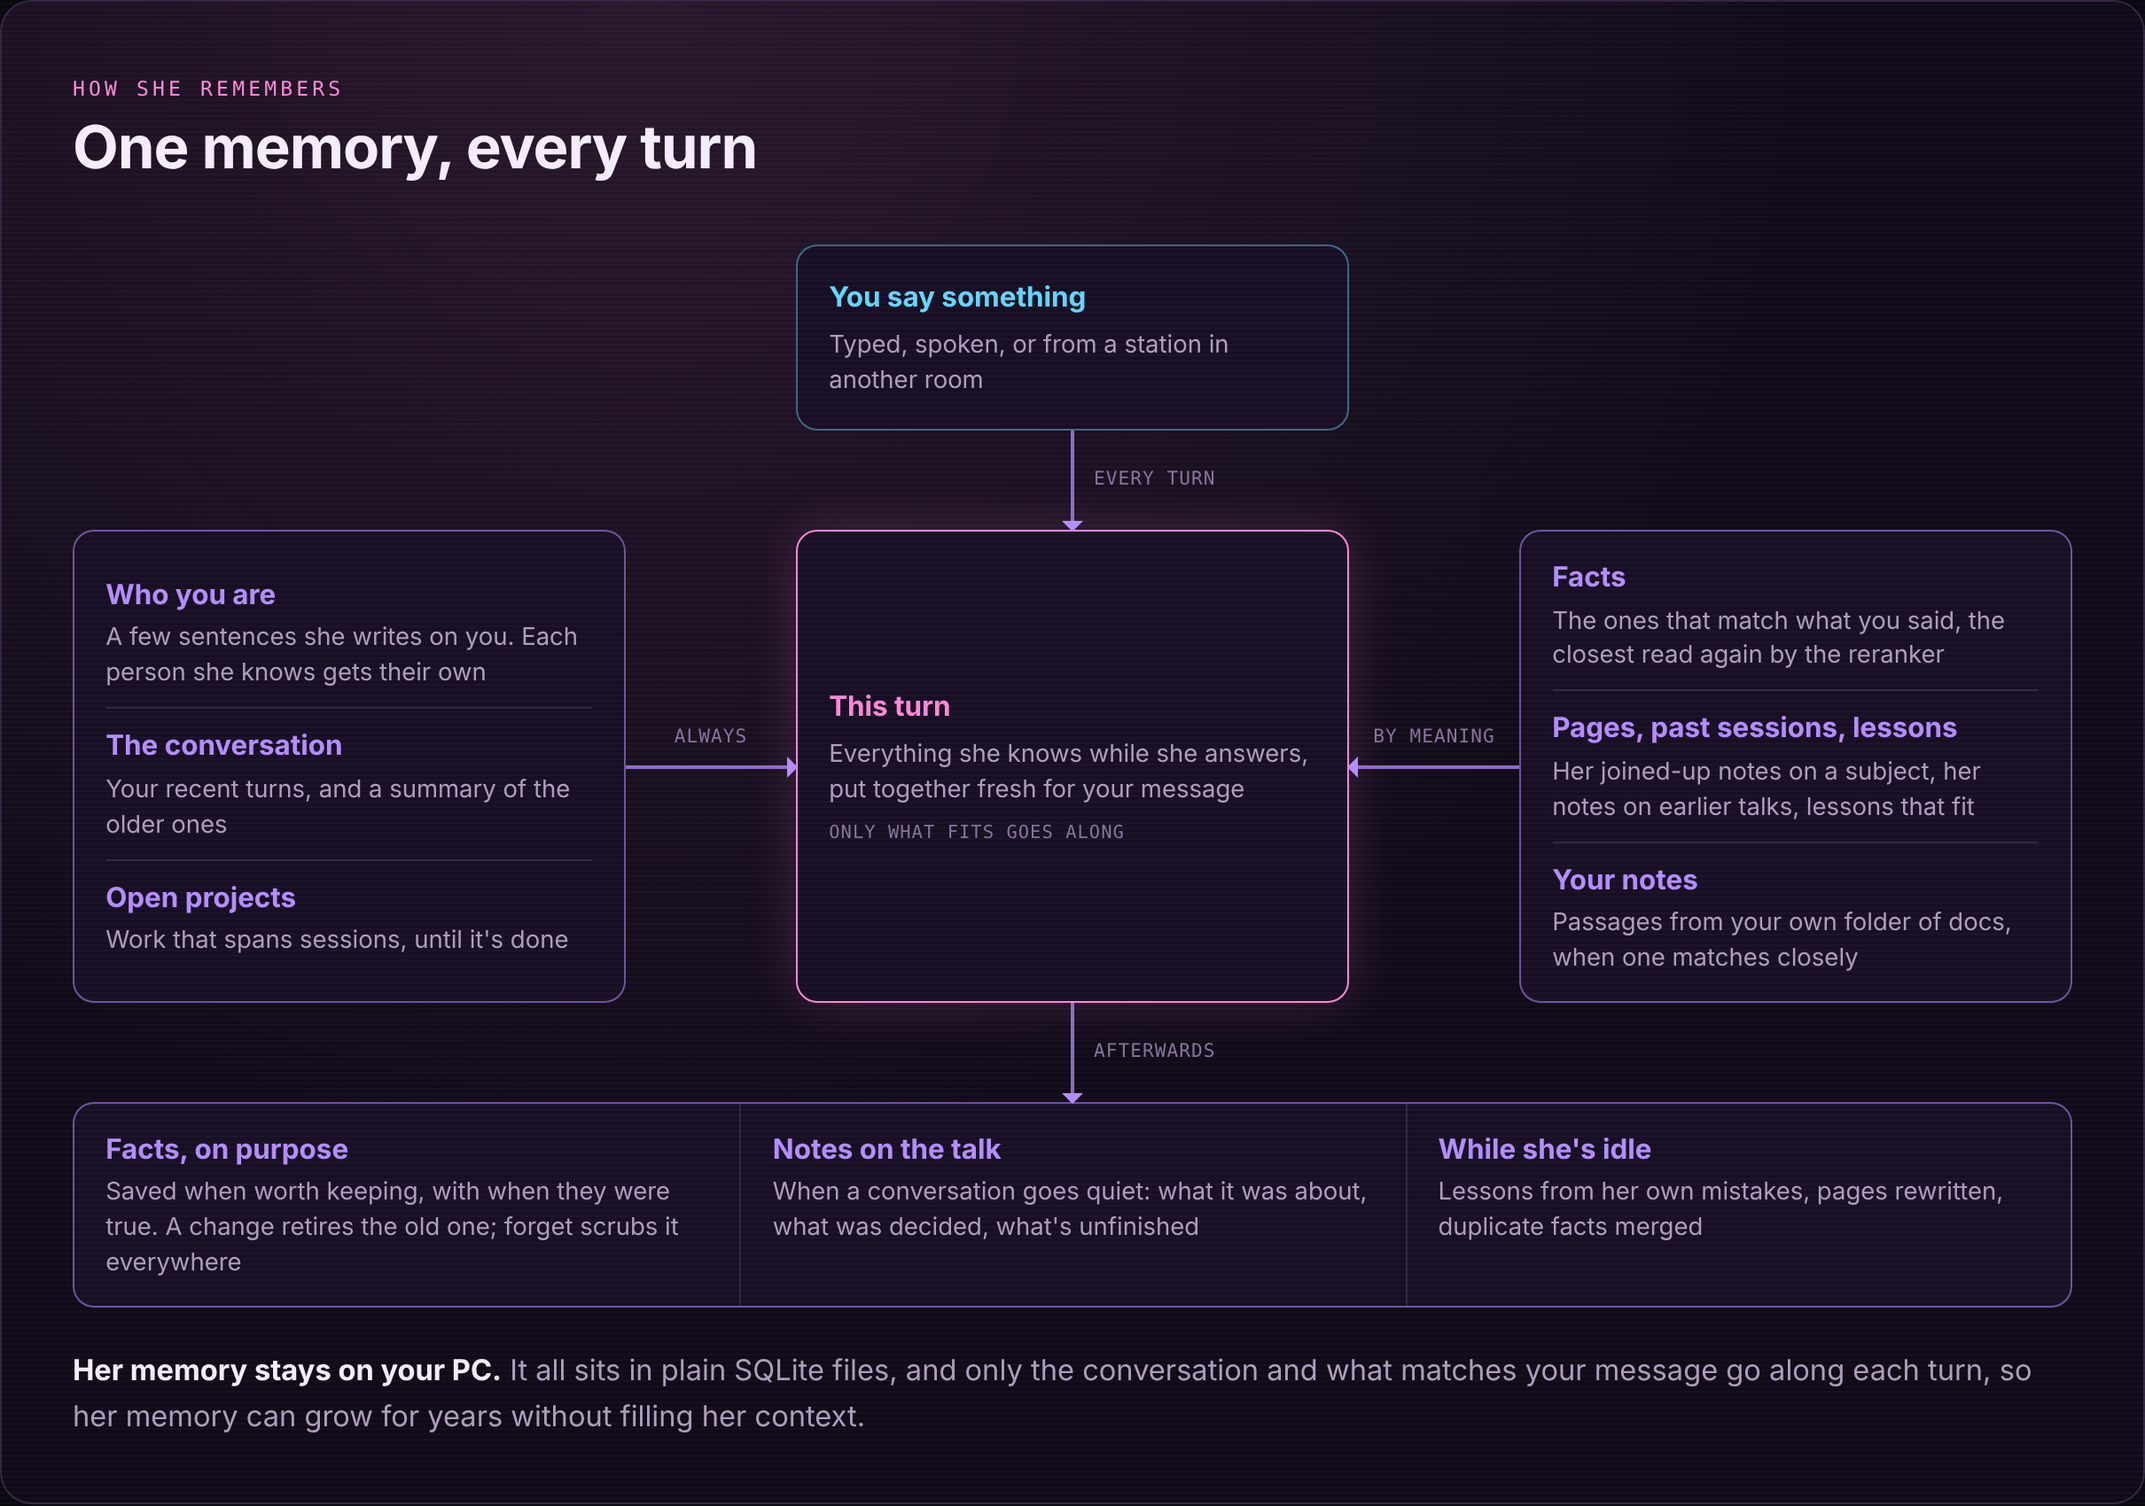
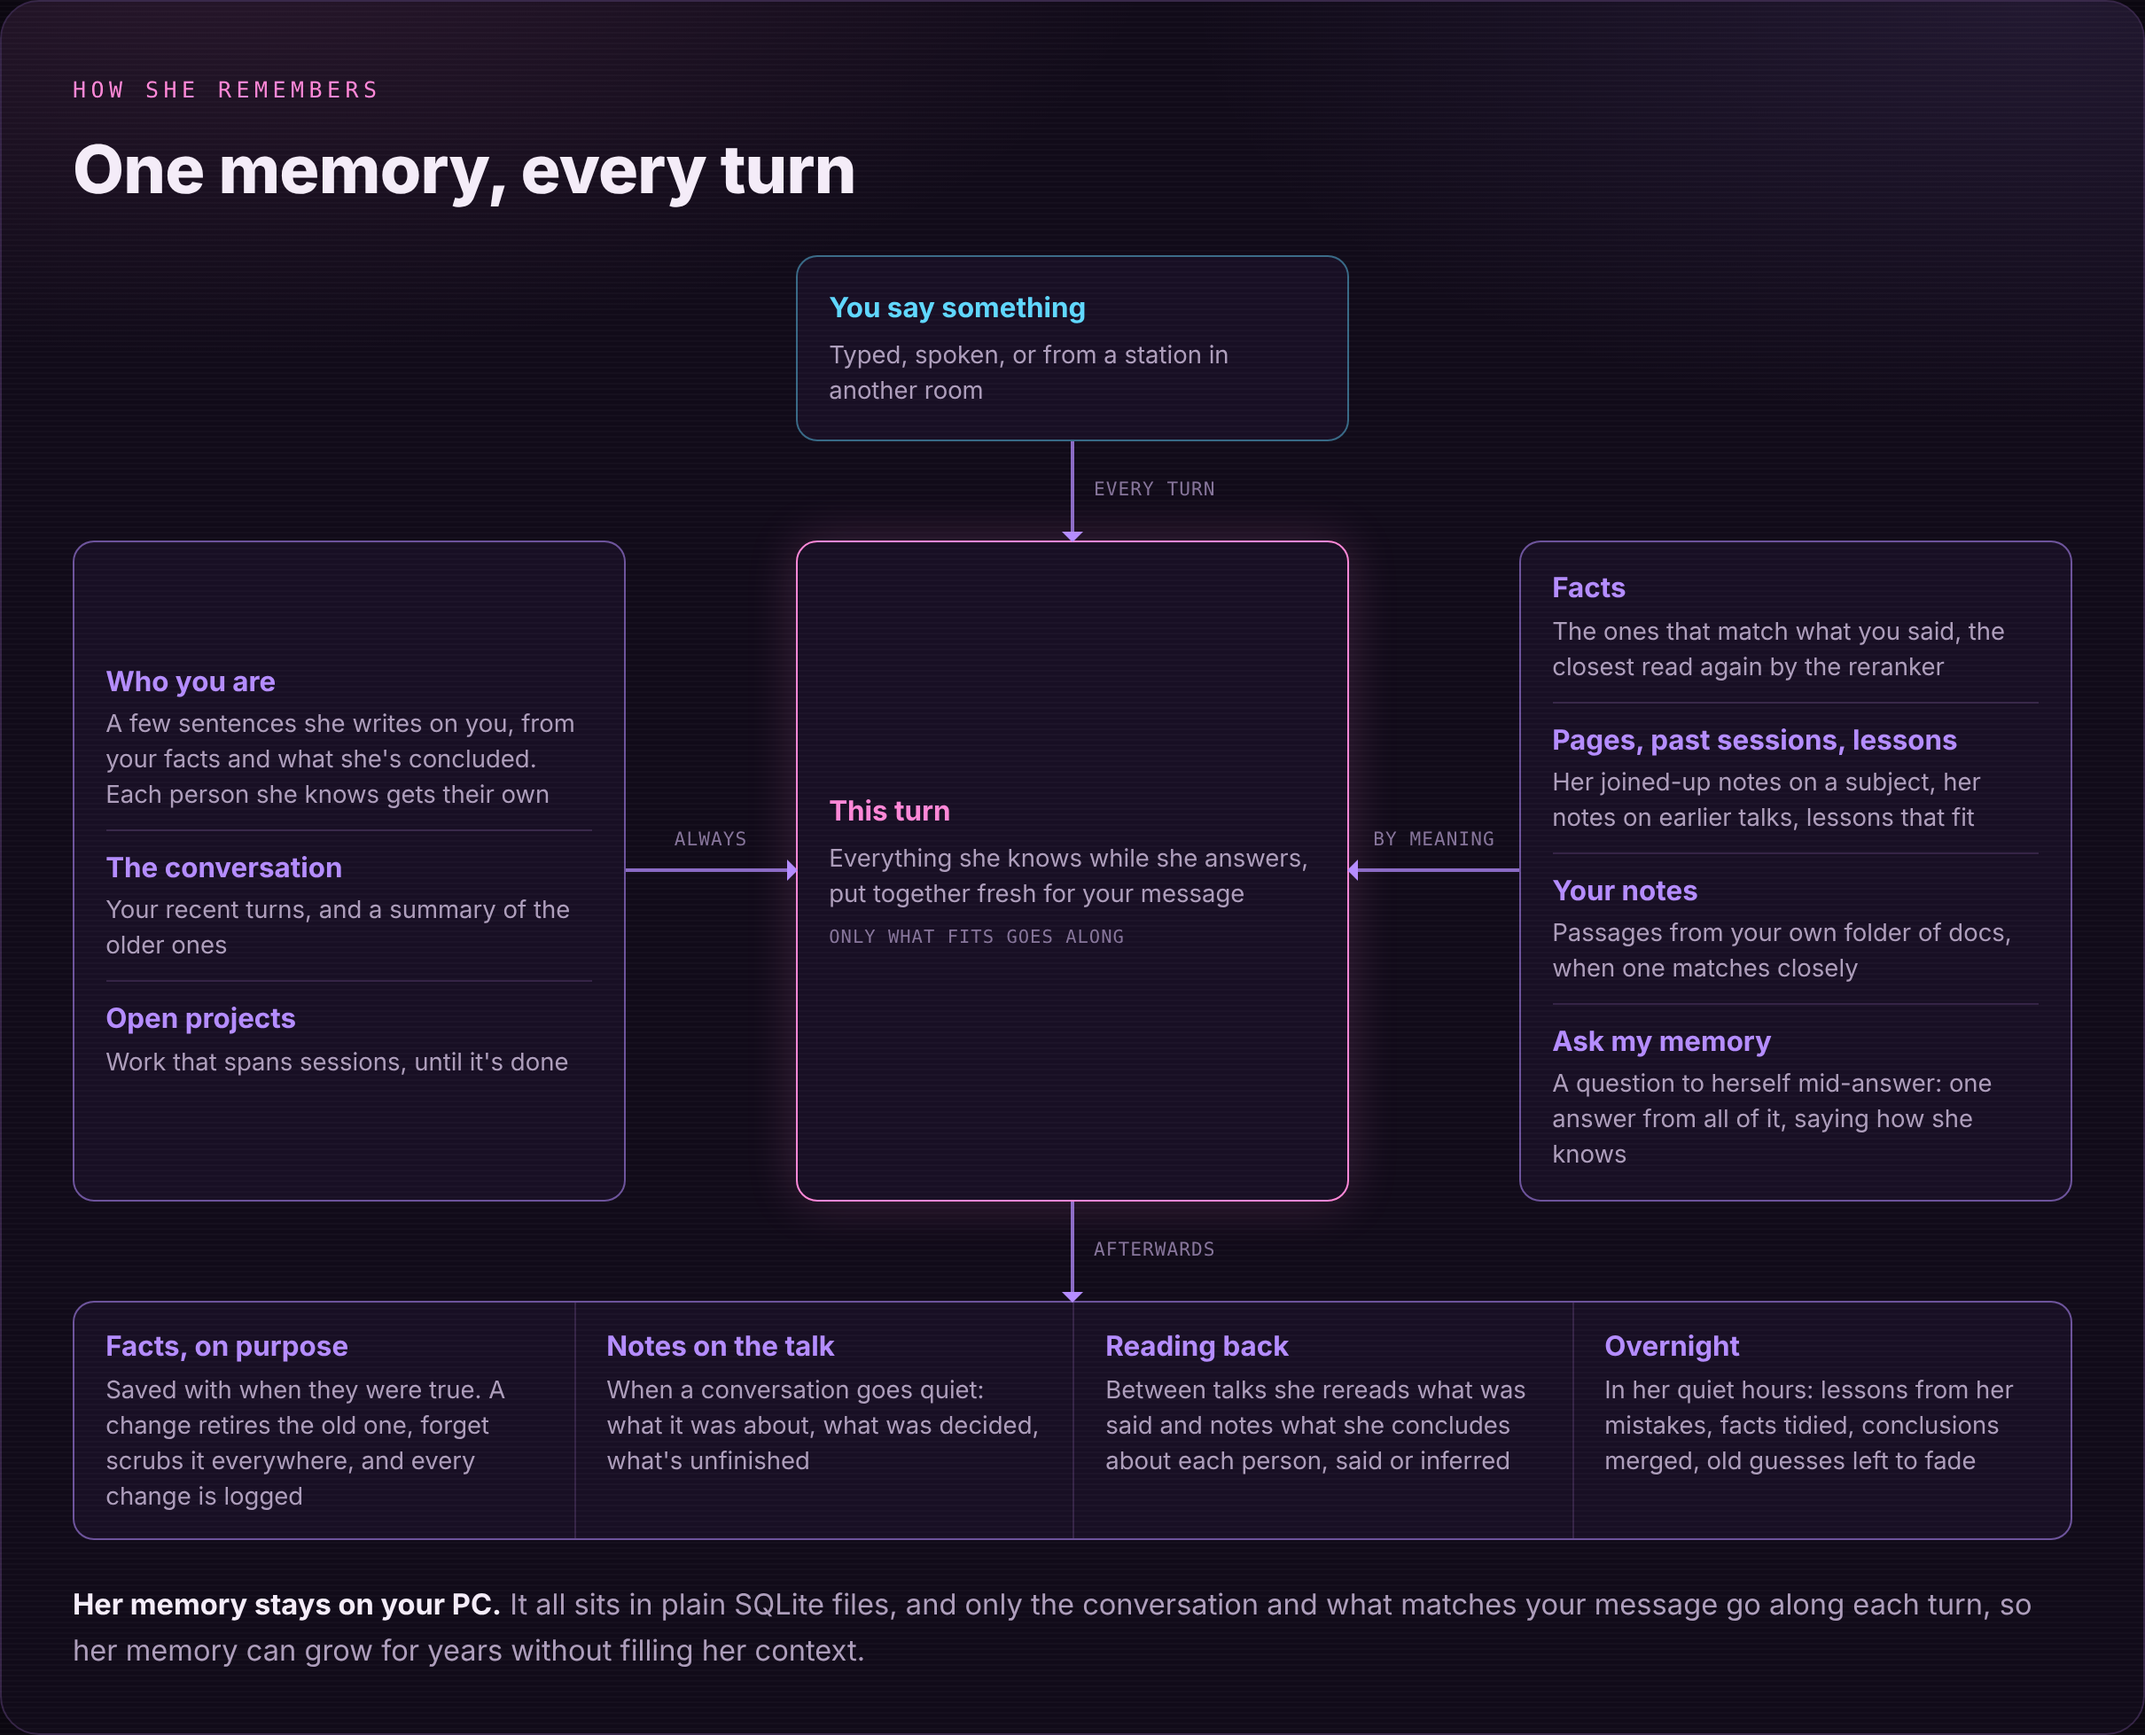
Docs: the memory graph shows conclusions, ask my memory, reading back and the overnight pass

diff --git a/README.md b/README.md
@@ -39,7 +39,7 @@ grew from there.
 
 <img width="1210" alt="How Luna's models work together. The chat model is her mind, in the middle, and the only one required. Whisper (her hearing, on the CPU) and the vision adapter (her eyes) feed what you say and show into it. Kokoro speaks her replies. Every turn, the embedding model and the reranker find the facts, notes and tools that fit. Only when you ask, she can put one short question to a bigger cloud model: Claude, Grok or ChatGPT. Leave the optional parts out and she does without." src="assets/luna-models.png" />
 
-<img width="1210" alt="How Luna's memory works on each turn. Your message comes in at the top. In the middle is this turn: everything she knows while she answers, put together fresh each time, and only what fits goes along. Always along, on the left: who you are, the conversation so far and her open projects. Found by meaning, on the right: the facts that fit (read again by the reranker), her pages, notes on past sessions and lessons that fit, and passages from your own notes. Afterwards, underneath: she saves facts on purpose with when they were true (a change retires the old one, forget scrubs it everywhere), writes notes on a conversation when it goes quiet, and while idle learns lessons from her own mistakes, rewrites pages and merges duplicate facts. Her memory stays on your PC in plain SQLite files." src="assets/luna-memory.png" />
+<img width="1210" alt="How Luna's memory works on each turn. Your message comes in at the top. In the middle is this turn: everything she knows while she answers, put together fresh each time, and only what fits goes along. Always along, on the left: who you are (written from your facts and what she's concluded), the conversation so far and her open projects. Found by meaning, on the right: the facts that fit (read again by the reranker), her pages, notes on past sessions and lessons that fit, passages from your own notes, and ask my memory, a question she asks herself mid-answer. Afterwards, underneath: she saves facts on purpose with when they were true and logs every change, writes notes on a conversation when it goes quiet, reads conversations back between talks and notes what she concludes about each person, and overnight learns lessons, tidies facts, merges her conclusions and lets old guesses fade. Her memory stays on your PC in plain SQLite files." src="assets/luna-memory.png" />
 
 ```bash
 git clone https://github.com/fswolf/luna-local-agent.git ~/luna-ai

diff --git a/docs/memory.md b/docs/memory.md
@@ -1,6 +1,6 @@
 # Memory
 
-<img width="1210" alt="How Luna's memory works on each turn. Your message comes in at the top. In the middle is this turn: everything she knows while she answers, put together fresh each time, and only what fits goes along. Always along, on the left: who you are, the conversation so far and her open projects. Found by meaning, on the right: the facts that fit (read again by the reranker), her pages, notes on past sessions and lessons that fit, and passages from your own notes. Afterwards, underneath: she saves facts on purpose with when they were true (a change retires the old one, forget scrubs it everywhere), writes notes on a conversation when it goes quiet, and while idle learns lessons from her own mistakes, rewrites pages and merges duplicate facts. Her memory stays on your PC in plain SQLite files." src="https://raw.githubusercontent.com/fswolf/luna-local-agent/main/assets/luna-memory.png" />
+<img width="1210" alt="How Luna's memory works on each turn. Your message comes in at the top. In the middle is this turn: everything she knows while she answers, put together fresh each time, and only what fits goes along. Always along, on the left: who you are (written from your facts and what she's concluded), the conversation so far and her open projects. Found by meaning, on the right: the facts that fit (read again by the reranker), her pages, notes on past sessions and lessons that fit, passages from your own notes, and ask my memory, a question she asks herself mid-answer. Afterwards, underneath: she saves facts on purpose with when they were true and logs every change, writes notes on a conversation when it goes quiet, reads conversations back between talks and notes what she concludes about each person, and overnight learns lessons, tidies facts, merges her conclusions and lets old guesses fade. Her memory stays on your PC in plain SQLite files." src="https://raw.githubusercontent.com/fswolf/luna-local-agent/main/assets/luna-memory.png" />
 
 Facts are written deliberately by the model, not scraped from every
 turn, and they live in `agent/facts.db`, with a page to edit them by
